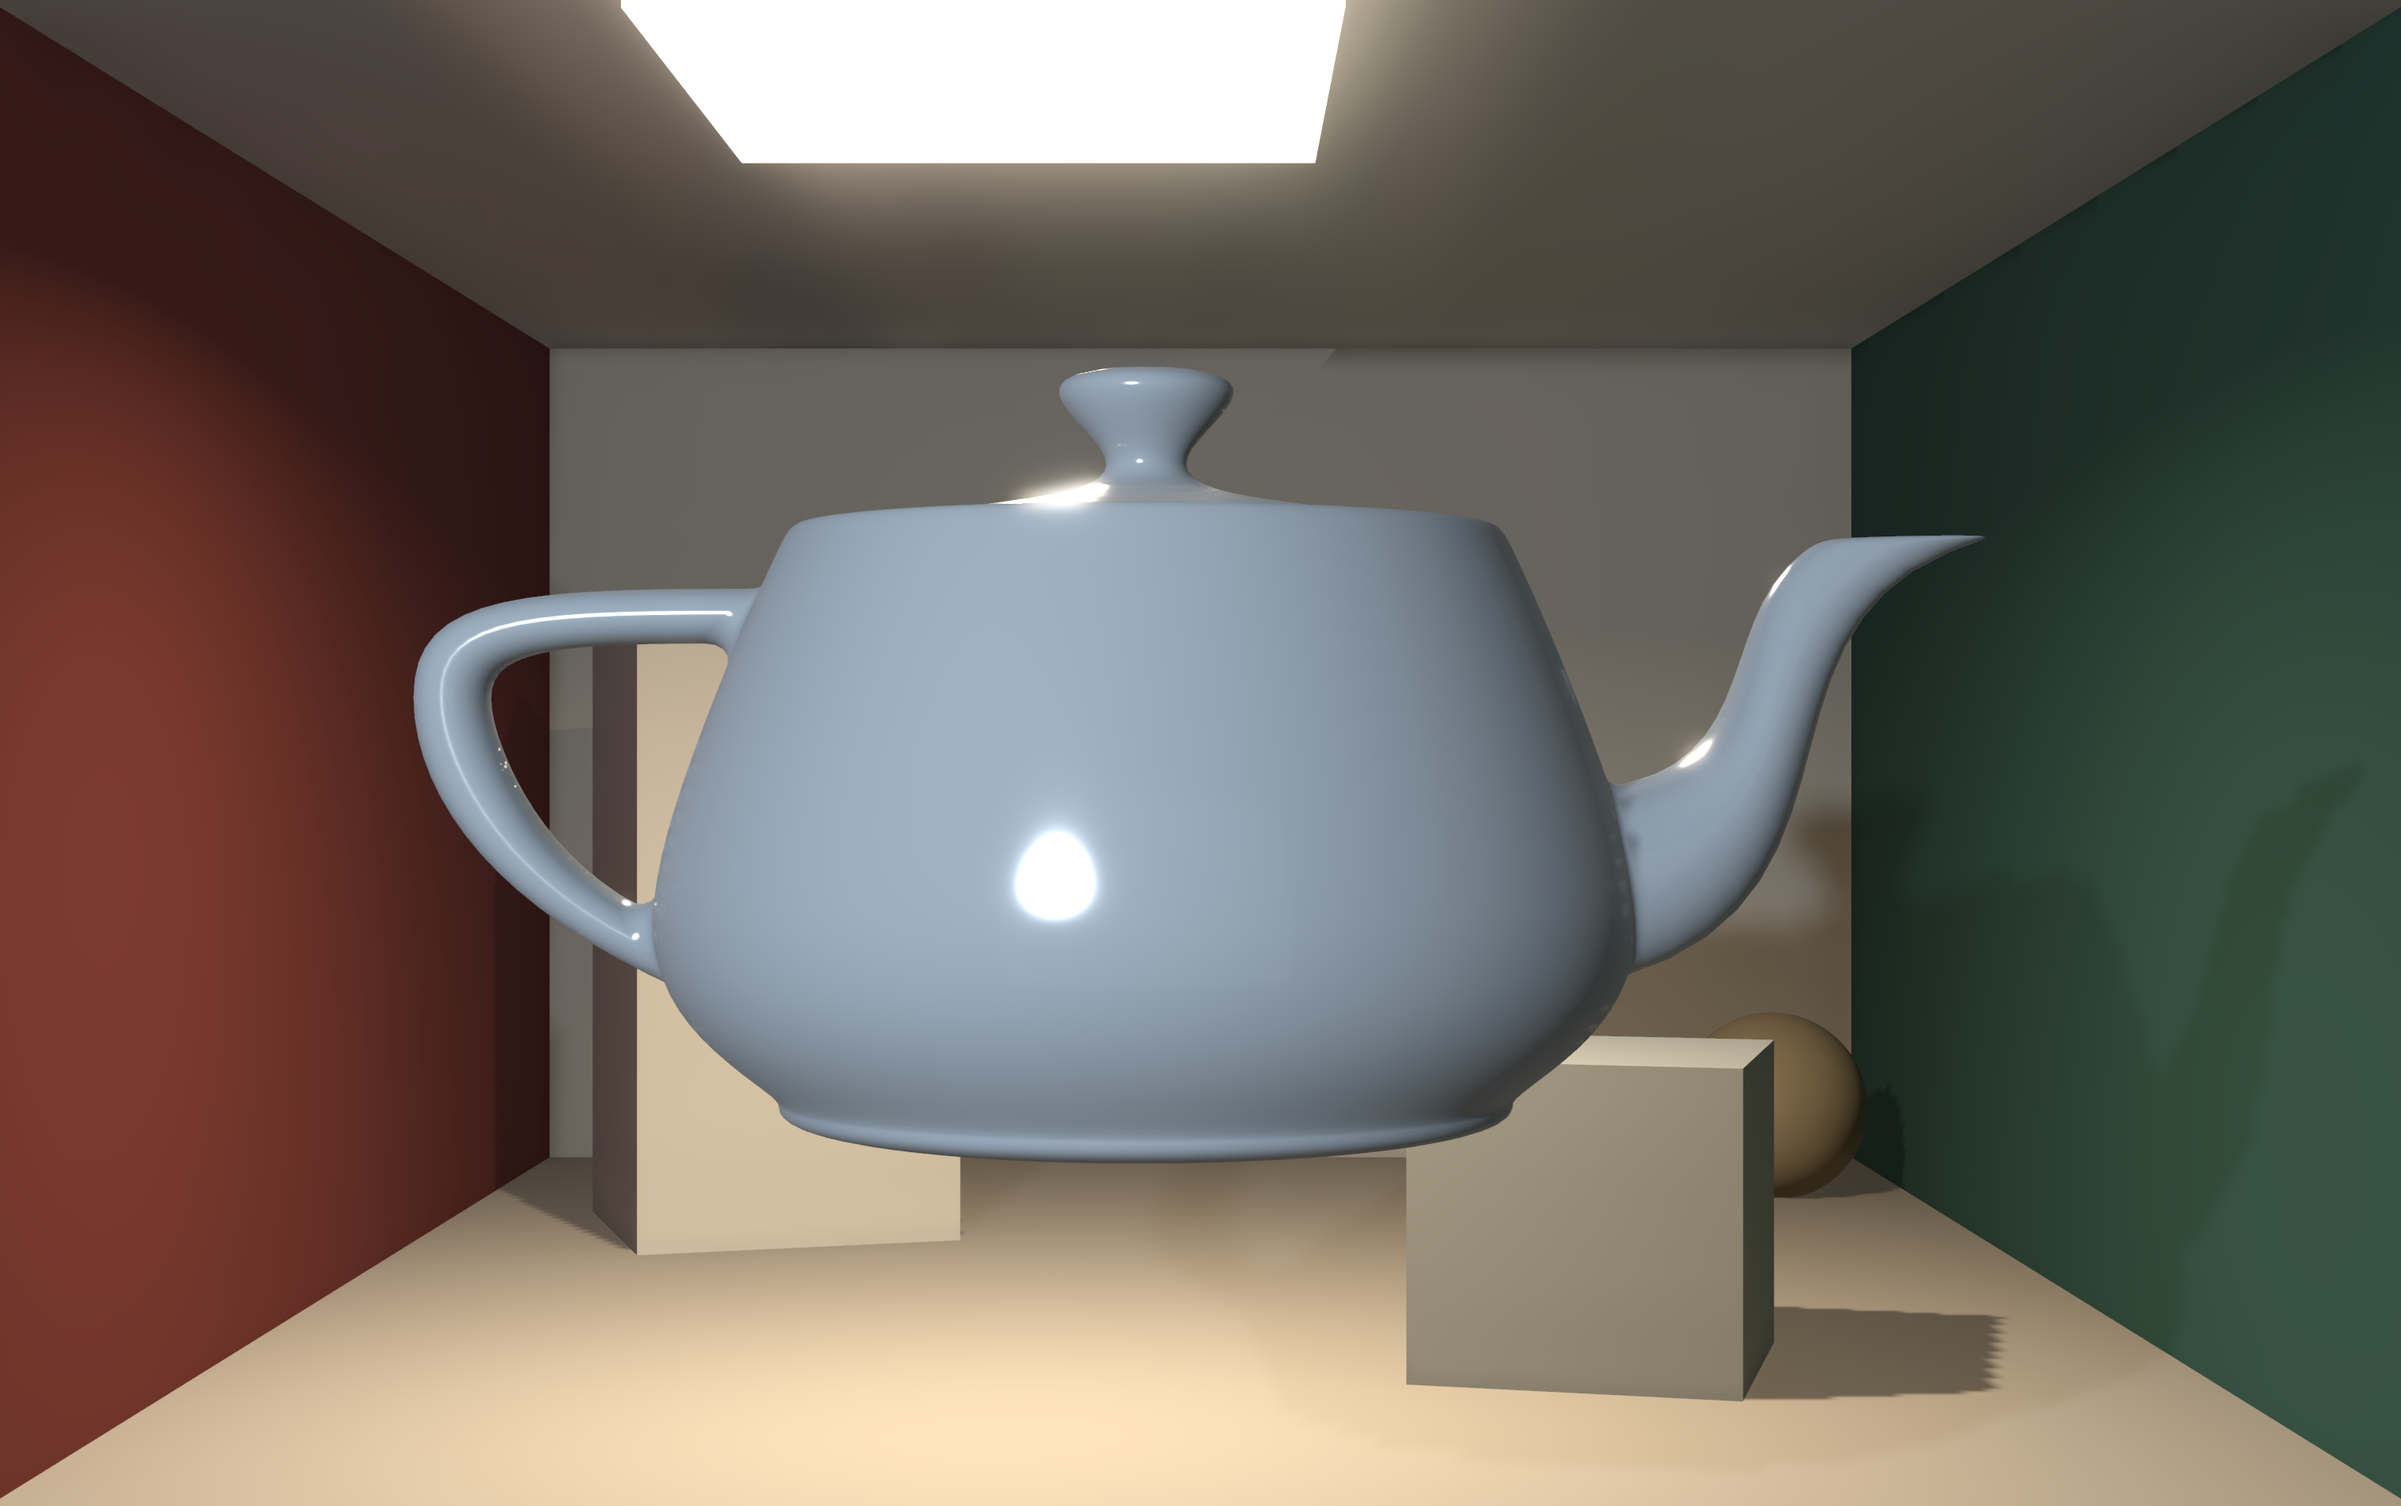
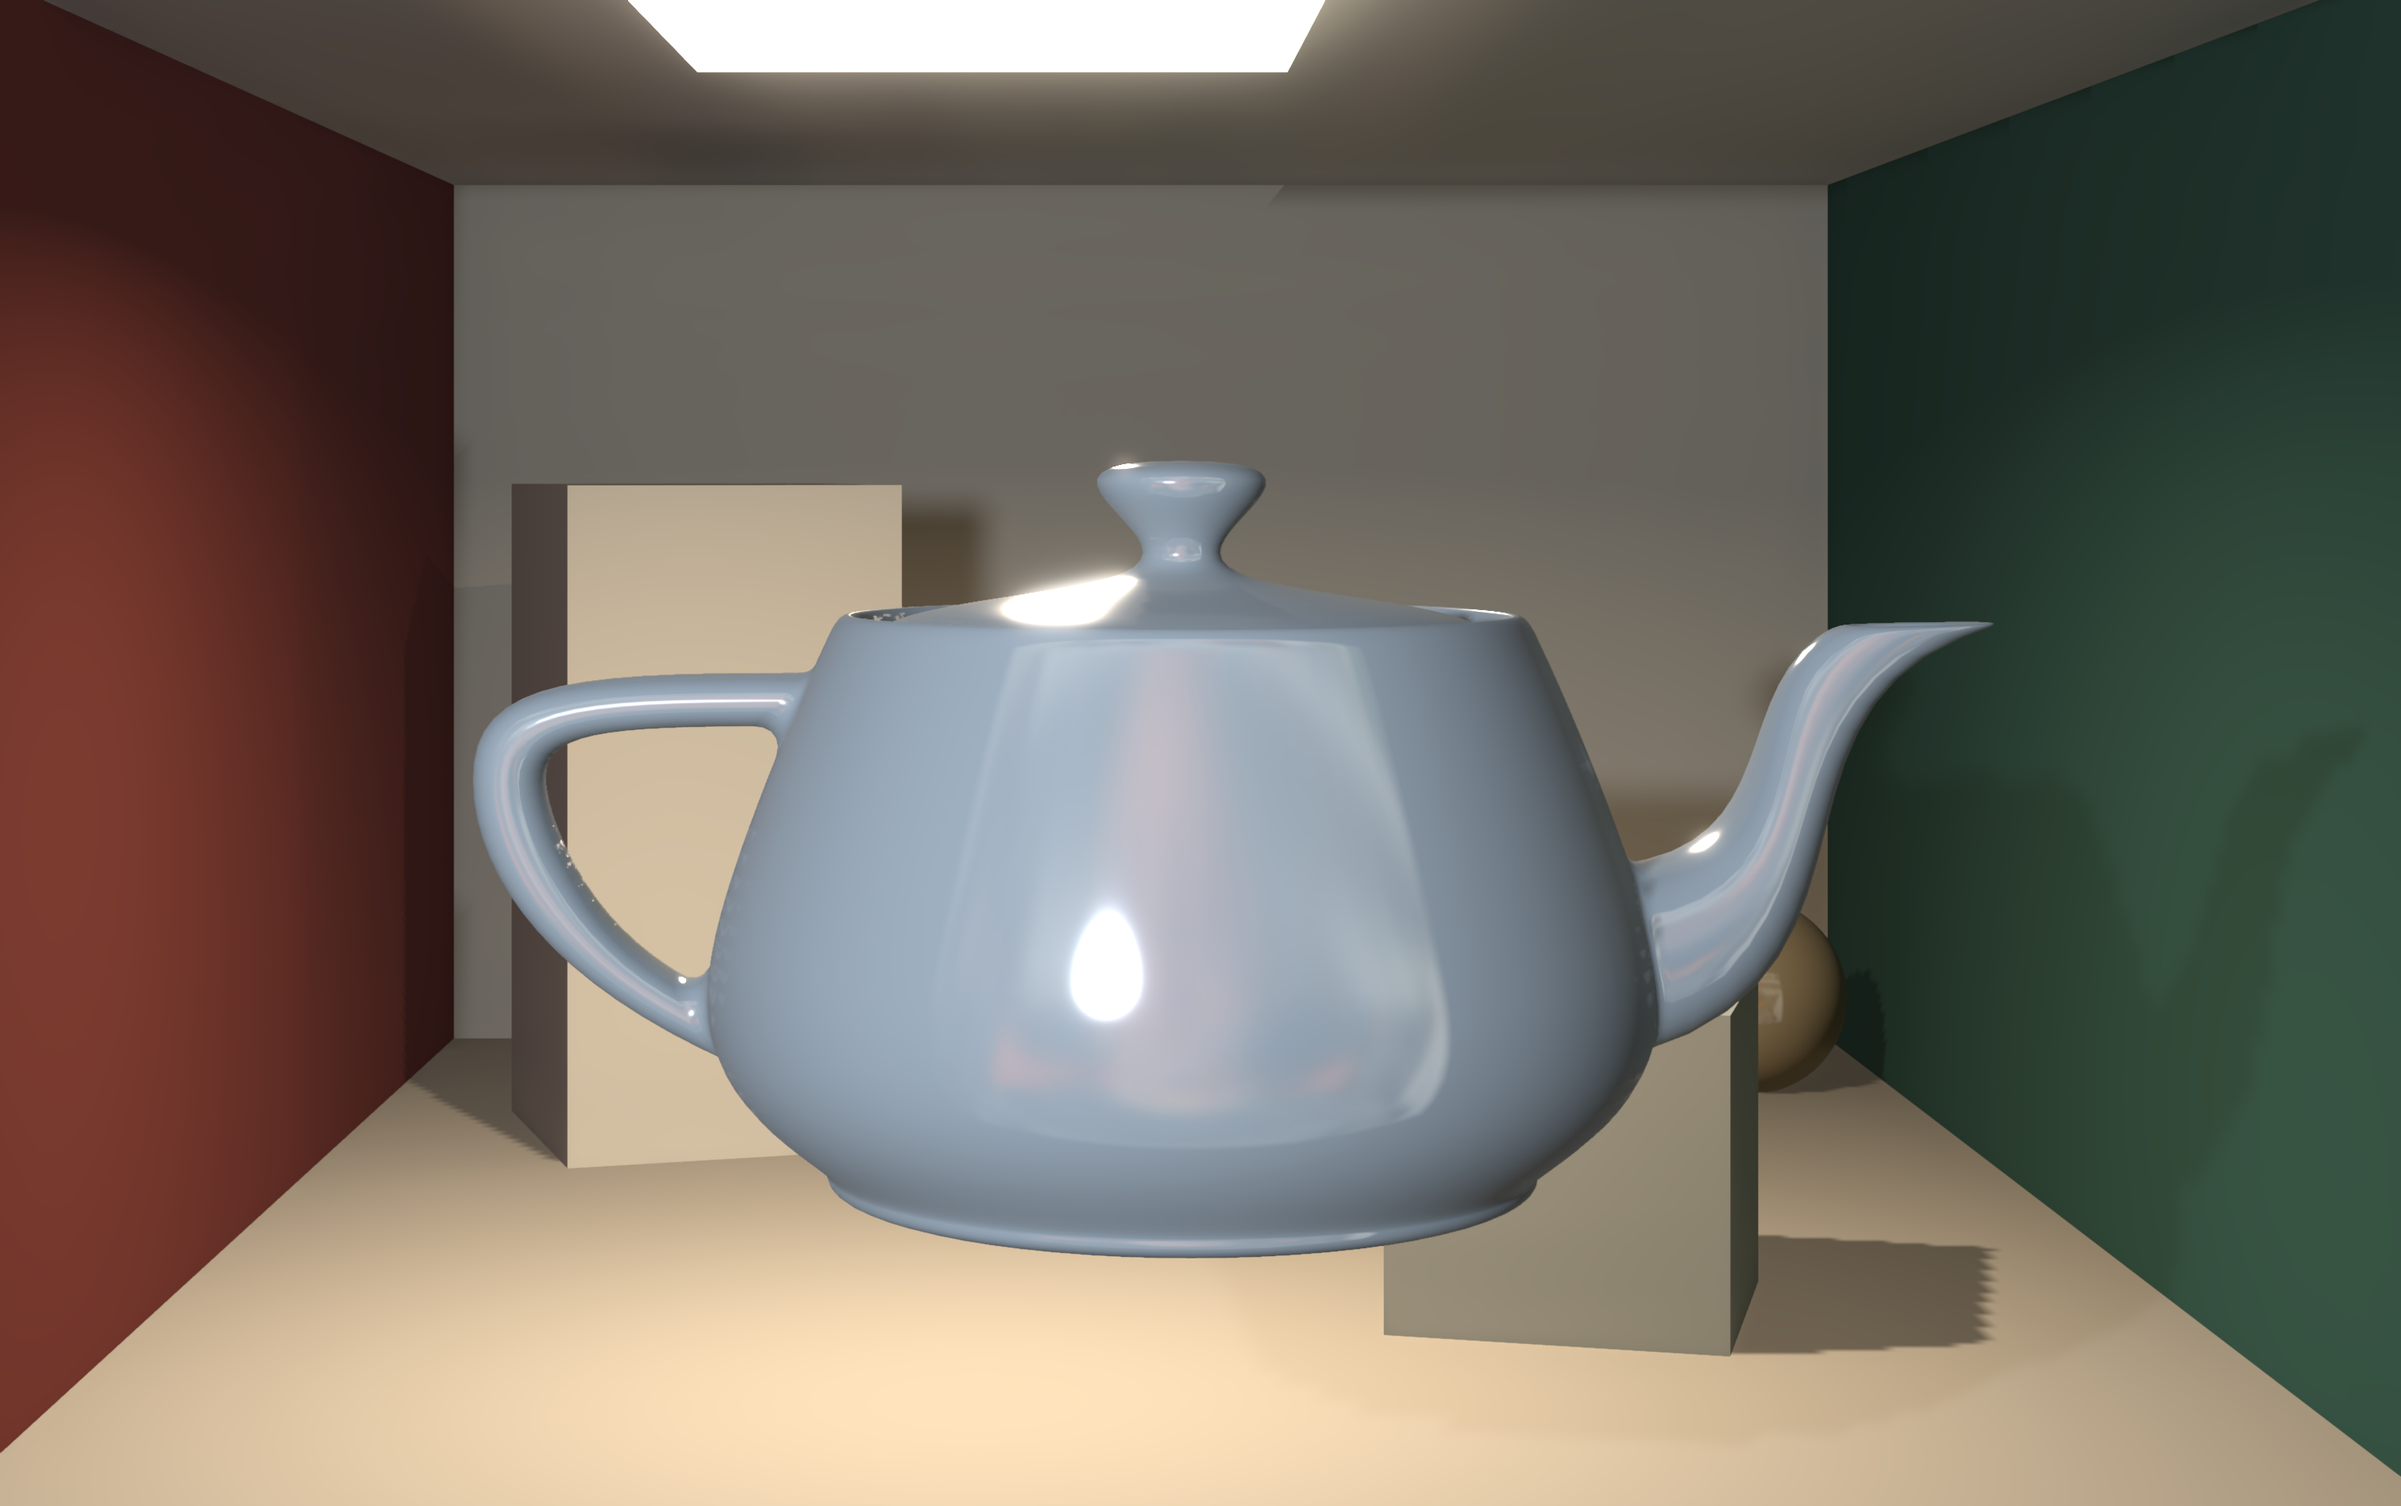
Tune reflections and add in-game screenshots

diff --git a/godot/README.md b/godot/README.md
@@ -61,23 +61,30 @@ bake; after changing the room or its lights, select its LightmapGI node in the
 Godot editor and click **Bake Lightmaps**, then save the scene.
 
 One box-projected ReflectionProbe captures the room, while screen-space
-reflections add visible detail. The webcam image adds a small, partial reflection
+reflections add visible detail. The webcam image adds a broad, partial reflection
 on every surface. All materials remain dielectric; the matte walls have high
 roughness so they reflect light without looking glossy.
 
-Webcam reflections use the same approximate intrinsics as head tracking, with
+Webcam reflections start from the same approximate intrinsics as head tracking, with
 the camera's height above screen center and the saved seating offset applied.
 Reflected rays sample the image on a plane at the tracked eye distance. This
-corrects the former height and field-of-view mismatch; it remains an approximation
+corrects the former height mismatch. The image is spread more broadly over curved
+surfaces so its blurred details remain visible; it remains an approximation
 for a room with objects at different depths. Exact alignment requires measured
 webcam intrinsics and its position relative to the screen. The original capture's
 aspect ratio is sent with the pose, so resizing the stream does not alter the mapping.
+The viewer-side fill light provides diffuse illumination and a restrained
+specular highlight on the teapot.
 
 SSIL uses a 150 mm radius and 1.0 intensity to complement the baked lighting.
 
 The teapot's source and attribution are in [models/TEAPOT_ATTRIBUTION.txt](models/TEAPOT_ATTRIBUTION.txt).
 
 ## Capture a comparison frame
+
+While the app is running, press **S** to save the current view as a PNG in your
+Downloads folder. The screenshot includes the live webcam reflection, and the
+brief save confirmation appears only after the image is captured.
 
 ```sh
 /Applications/Godot.app/Contents/MacOS/Godot --path godot -- --capture /tmp/holoframe-godot.png

diff --git a/README.md b/README.md
@@ -6,9 +6,9 @@
 
 HoloFrame uses your webcam to follow your head and adjust the view through your screen. Lean left to look around the teapot, move closer to see more of the room, or look down to reveal its upper surfaces. The scene stays in place while your viewpoint moves—no headset or special glasses required.
 
-![HoloFrame showing a glazed teapot, blocks, and a sphere in a softly lit room with red and green walls](img/HoloFrame.png)
+![HoloFrame showing the Utah teapot with a broad webcam reflection, blocks, and a sphere in a softly lit room](img/HoloFrame.png)
 
-Captured on a 14-inch MacBook Pro with the display calibration applied.
+Captured in-app with a live webcam reflection on a 14-inch MacBook Pro with the display calibration applied.
 
 ## Features
 
@@ -46,6 +46,7 @@ The launcher starts both the app and its webcam tracker. Allow camera access if 
 | --- | --- |
 | **C** | Center the view for your current seating position and save the adjustment. |
 | **Shift+C** | Clear the saved seating adjustment. |
+| **S** | Save a screenshot of the current view to Downloads. |
 | **Escape** | Quit the app and stop the webcam tracker. |
 
 Recalibrate after moving your screen or webcam. The seating adjustment changes horizontal and vertical alignment; distance and head movement remain tracked.
@@ -97,6 +98,12 @@ Check the view, calibration, reflection inputs, and shadow settings:
 
 ```sh
 /Applications/Godot.app/Contents/MacOS/Godot --path godot --script res://tests/check_view.gd
+```
+
+Check the in-game screenshot key with a rendered frame:
+
+```sh
+/Applications/Godot.app/Contents/MacOS/Godot --path godot --script res://tests/check_screenshot.gd
 ```
 
 See the [rendering notes](godot/README.md) for lighting settings and screenshot capture commands.
